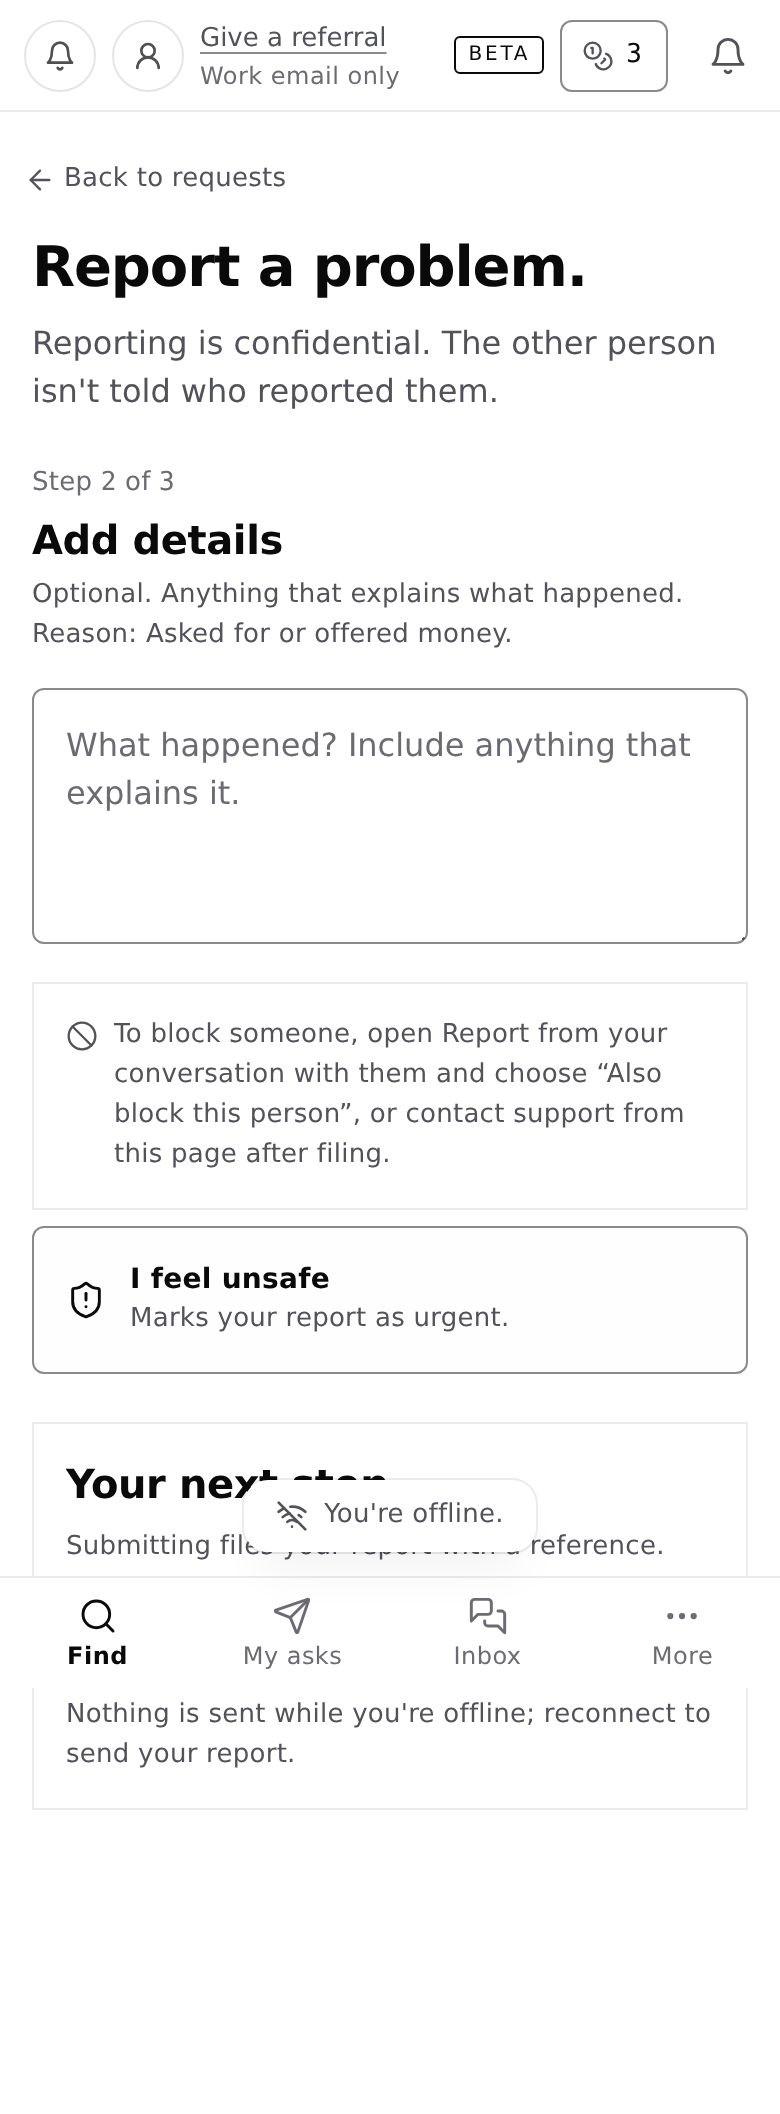
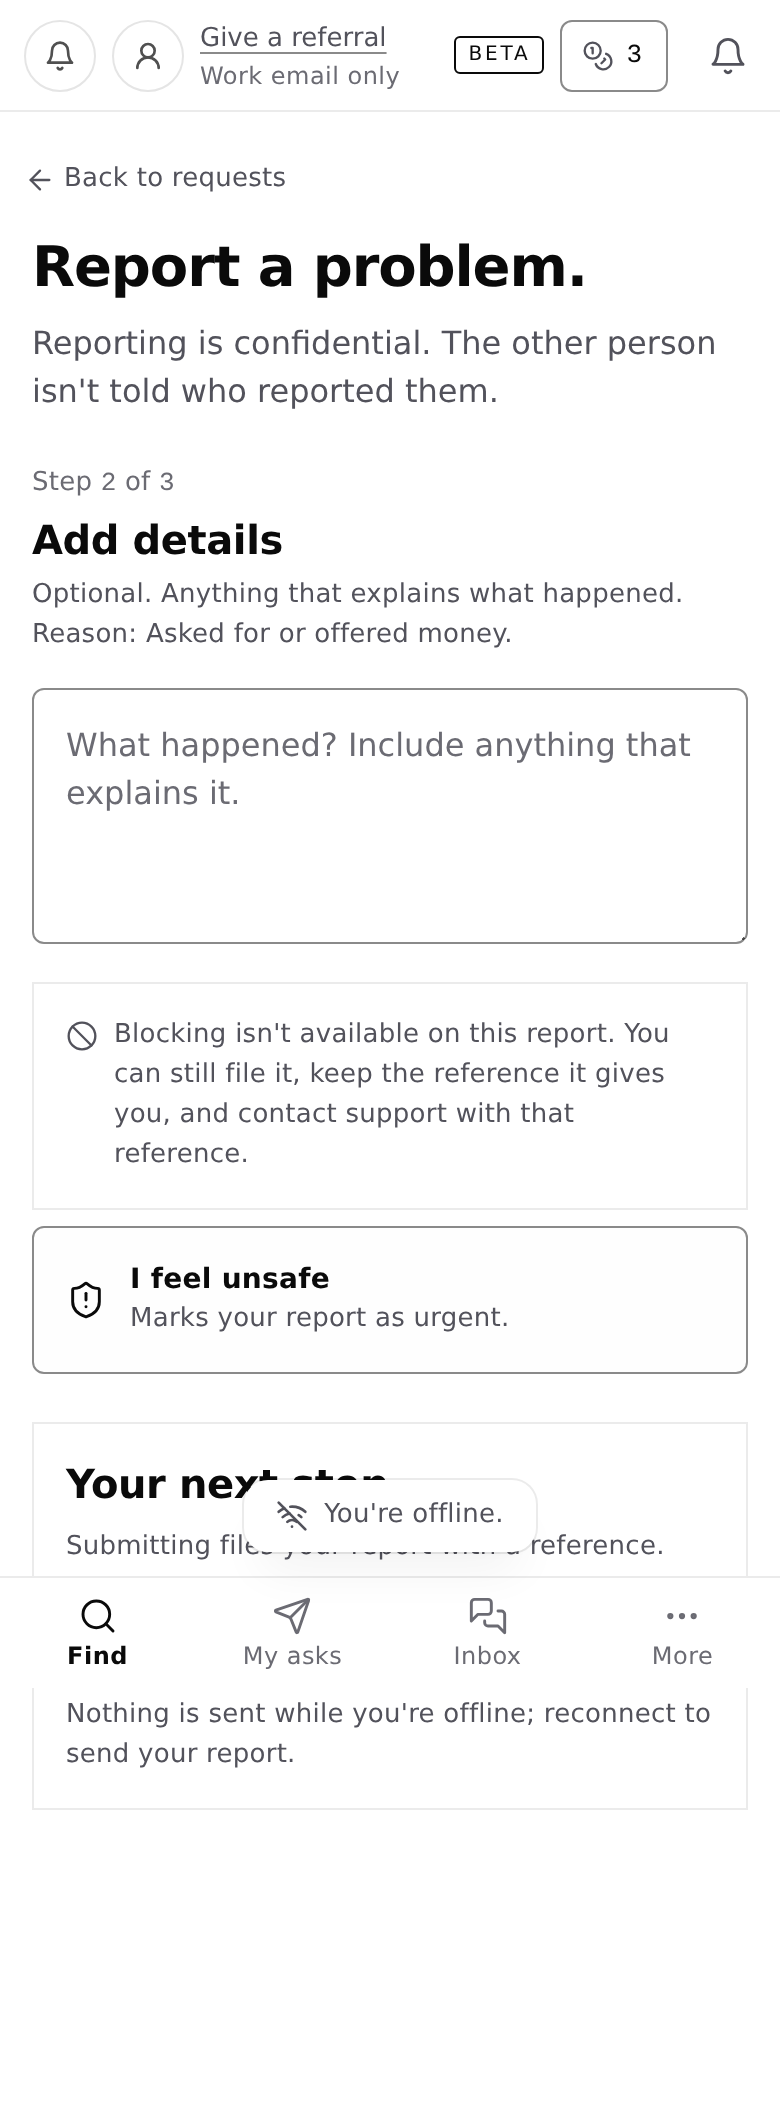
D-048-p3-support: fix review 6566372499 — owned no-context block lines no longer send people to the conversation's Report or say support will block (file, keep the reference, contact support); supportContent header states goal-owned copy, no kit-drift check, no restoring removed promises, money per 

Changed region(s): [[0.1538, 0.4683, 0.8615, 0.562]]

diff --git a/client/src/pages/goal/support/supportContent.ts b/client/src/pages/goal/support/supportContent.ts
@@ -1,12 +1,18 @@
 // Help and safety answers for the goal /help and /safety (D-048-p3-support).
-// The kit pages keep their own copies (Help.tsx, Safety.tsx); the goal pages
-// may not import a kit page file (goalPagesBoundary), so the answers are
-// mirrored here word for word (except the D-173/D-180 category name "Plans &
-// referrals", review 6563736305, and the answers rewritten by review
-// 6565471121 to drop operational promises: staff, manual review, stepping in),
-// and every money line is imported from
-// shared/moneyCopy.ts, never retyped (D-063, D-134). A copy change to the kit
-// answers ports here through the kit-drift check before release.
+// These answers are goal-owned copy. They started from the kit's Help.tsx and
+// Safety.tsx answers (goalPagesBoundary keeps kit page files out of the goal
+// pages), but they are no longer word-for-word kit copies: reviews 6563736305,
+// 6565471121 and 6566372499 rewrote them. No kit-drift check exists; nothing
+// keeps these answers in step with the kit, and a copy change on either side is
+// a deliberate edit, not an automatic port.
+// A later kit port must not restore the removed operational promises (staff or
+// "a person", manual review, review timing, outcome notification, stepping in),
+// the instruction to open Report from the conversation and choose "Also block
+// this person" (no product link opens Report with that toggle, review
+// 6566372499), or any claim that support will block someone.
+// Money lines follow D-173/D-180: every one with a shared/moneyCopy.ts export is
+// imported, never retyped (D-063, D-134); "Do credits expire?" is mirrored kit
+// money wording kept byte-identical (see the note on it below).
 import { ASK_COST_SENTENCE, CREDIT_RULE, MONEY_SENTENCE, REFERRER_MONEY_SENTENCE } from "@shared/moneyCopy";
 import { FREE_PLAN } from "@shared/planCatalog";
 
@@ -35,7 +41,11 @@ export const HELP_ANSWERS: ReadonlyArray<HelpAnswer> = [
   { category: "Account & privacy", question: "Who can see my resume?", answer: "Only a referrer who accepted your referral request." },
   { category: "Account & privacy", question: "How do I delete my account?", answer: "Settings lets you download your data or request account deletion. A deletion request is recorded and its status shows in Settings; records are not removed instantly." },
   { category: "Safety", question: "Someone asked me for money.", answer: "Don't pay. Use Report on the conversation (the other person isn't told who reported them), or contact support." },
-  { category: "Safety", question: "How do I block someone?", answer: "Open Report from your conversation with them and choose “Also block this person”. Otherwise, contact support." },
+  // Review 6566372499: the conversation pages link to a bare /report, which has
+  // no block toggle, so this answer neither sends people there for it nor says
+  // support will block. It gives the path that exists: file, keep the
+  // reference, contact support.
+  { category: "Safety", question: "How do I block someone?", answer: "You can't block someone from Help. If Report doesn't offer “Also block this person”, file the report anyway, keep the reference it gives you, and contact support with that reference." },
 ];
 
 export const HELP_POLICY_LINKS: ReadonlyArray<readonly [label: string, href: string]> = [

diff --git a/client/src/pages/goal/support/GoalReport.tsx b/client/src/pages/goal/support/GoalReport.tsx
@@ -19,6 +19,10 @@
 // Review 6565471121: the copy states what the code does (the report is filed
 // with a reference, a block can be placed, the reporter is not named) and makes
 // no operational promise (review, timing, staff, notification, intervention).
+// Review 6566372499: the "Also block this person" toggle is real only on the
+// ?request=<id> branch; no product code builds that URL yet (the conversation
+// pages link to a bare /report), so the no-context note claims no conversation
+// entry and no support-performed block.
 import { useState } from "react";
 import { Link, useLocation } from "wouter";
 import { ArrowLeft, Ban, Check, ShieldAlert } from "lucide-react";
@@ -44,6 +48,10 @@ const BLOCK_FAILED = "Your report was filed, but the block did not go through. T
 // A rejected block fetch proves neither that the server was unreachable nor
 // that it did not receive the block (review 6565471121); blocks are idempotent,
 // so a block-only retry stays.
+// Review 6566372499: without ?request=<id> there is no block toggle, and no
+// product link (the conversation pages link to a bare /report) supplies one, so
+// this line neither points back to the conversation nor says support will block.
+const NO_CONTEXT_BLOCK_NOTE = "Blocking isn't available on this report. You can still file it, keep the reference it gives you, and contact support with that reference.";
 const BLOCK_NETWORK = "Your report was filed, but we couldn't confirm the block went through. Try blocking again.";
 
 // A fetch that rejected: it may never have reached the server, or the server
@@ -239,7 +247,7 @@ export default function GoalReport() {
             ) : (
               <p className="flex items-start gap-2 border border-g-hairline p-4 text-g-meta text-g-ink-2">
                 <Ban aria-hidden="true" className="mt-0.5 size-4 shrink-0" strokeWidth={1.75} />
-                To block someone, open Report from your conversation with them and choose “Also block this person”, or contact support from this page after filing.
+                {NO_CONTEXT_BLOCK_NOTE}
               </p>
             )}
             <Toggle pressed={urgent} onToggle={() => setUrgent(!urgent)} icon={ShieldAlert} title="I feel unsafe" hint="Marks your report as urgent." />
